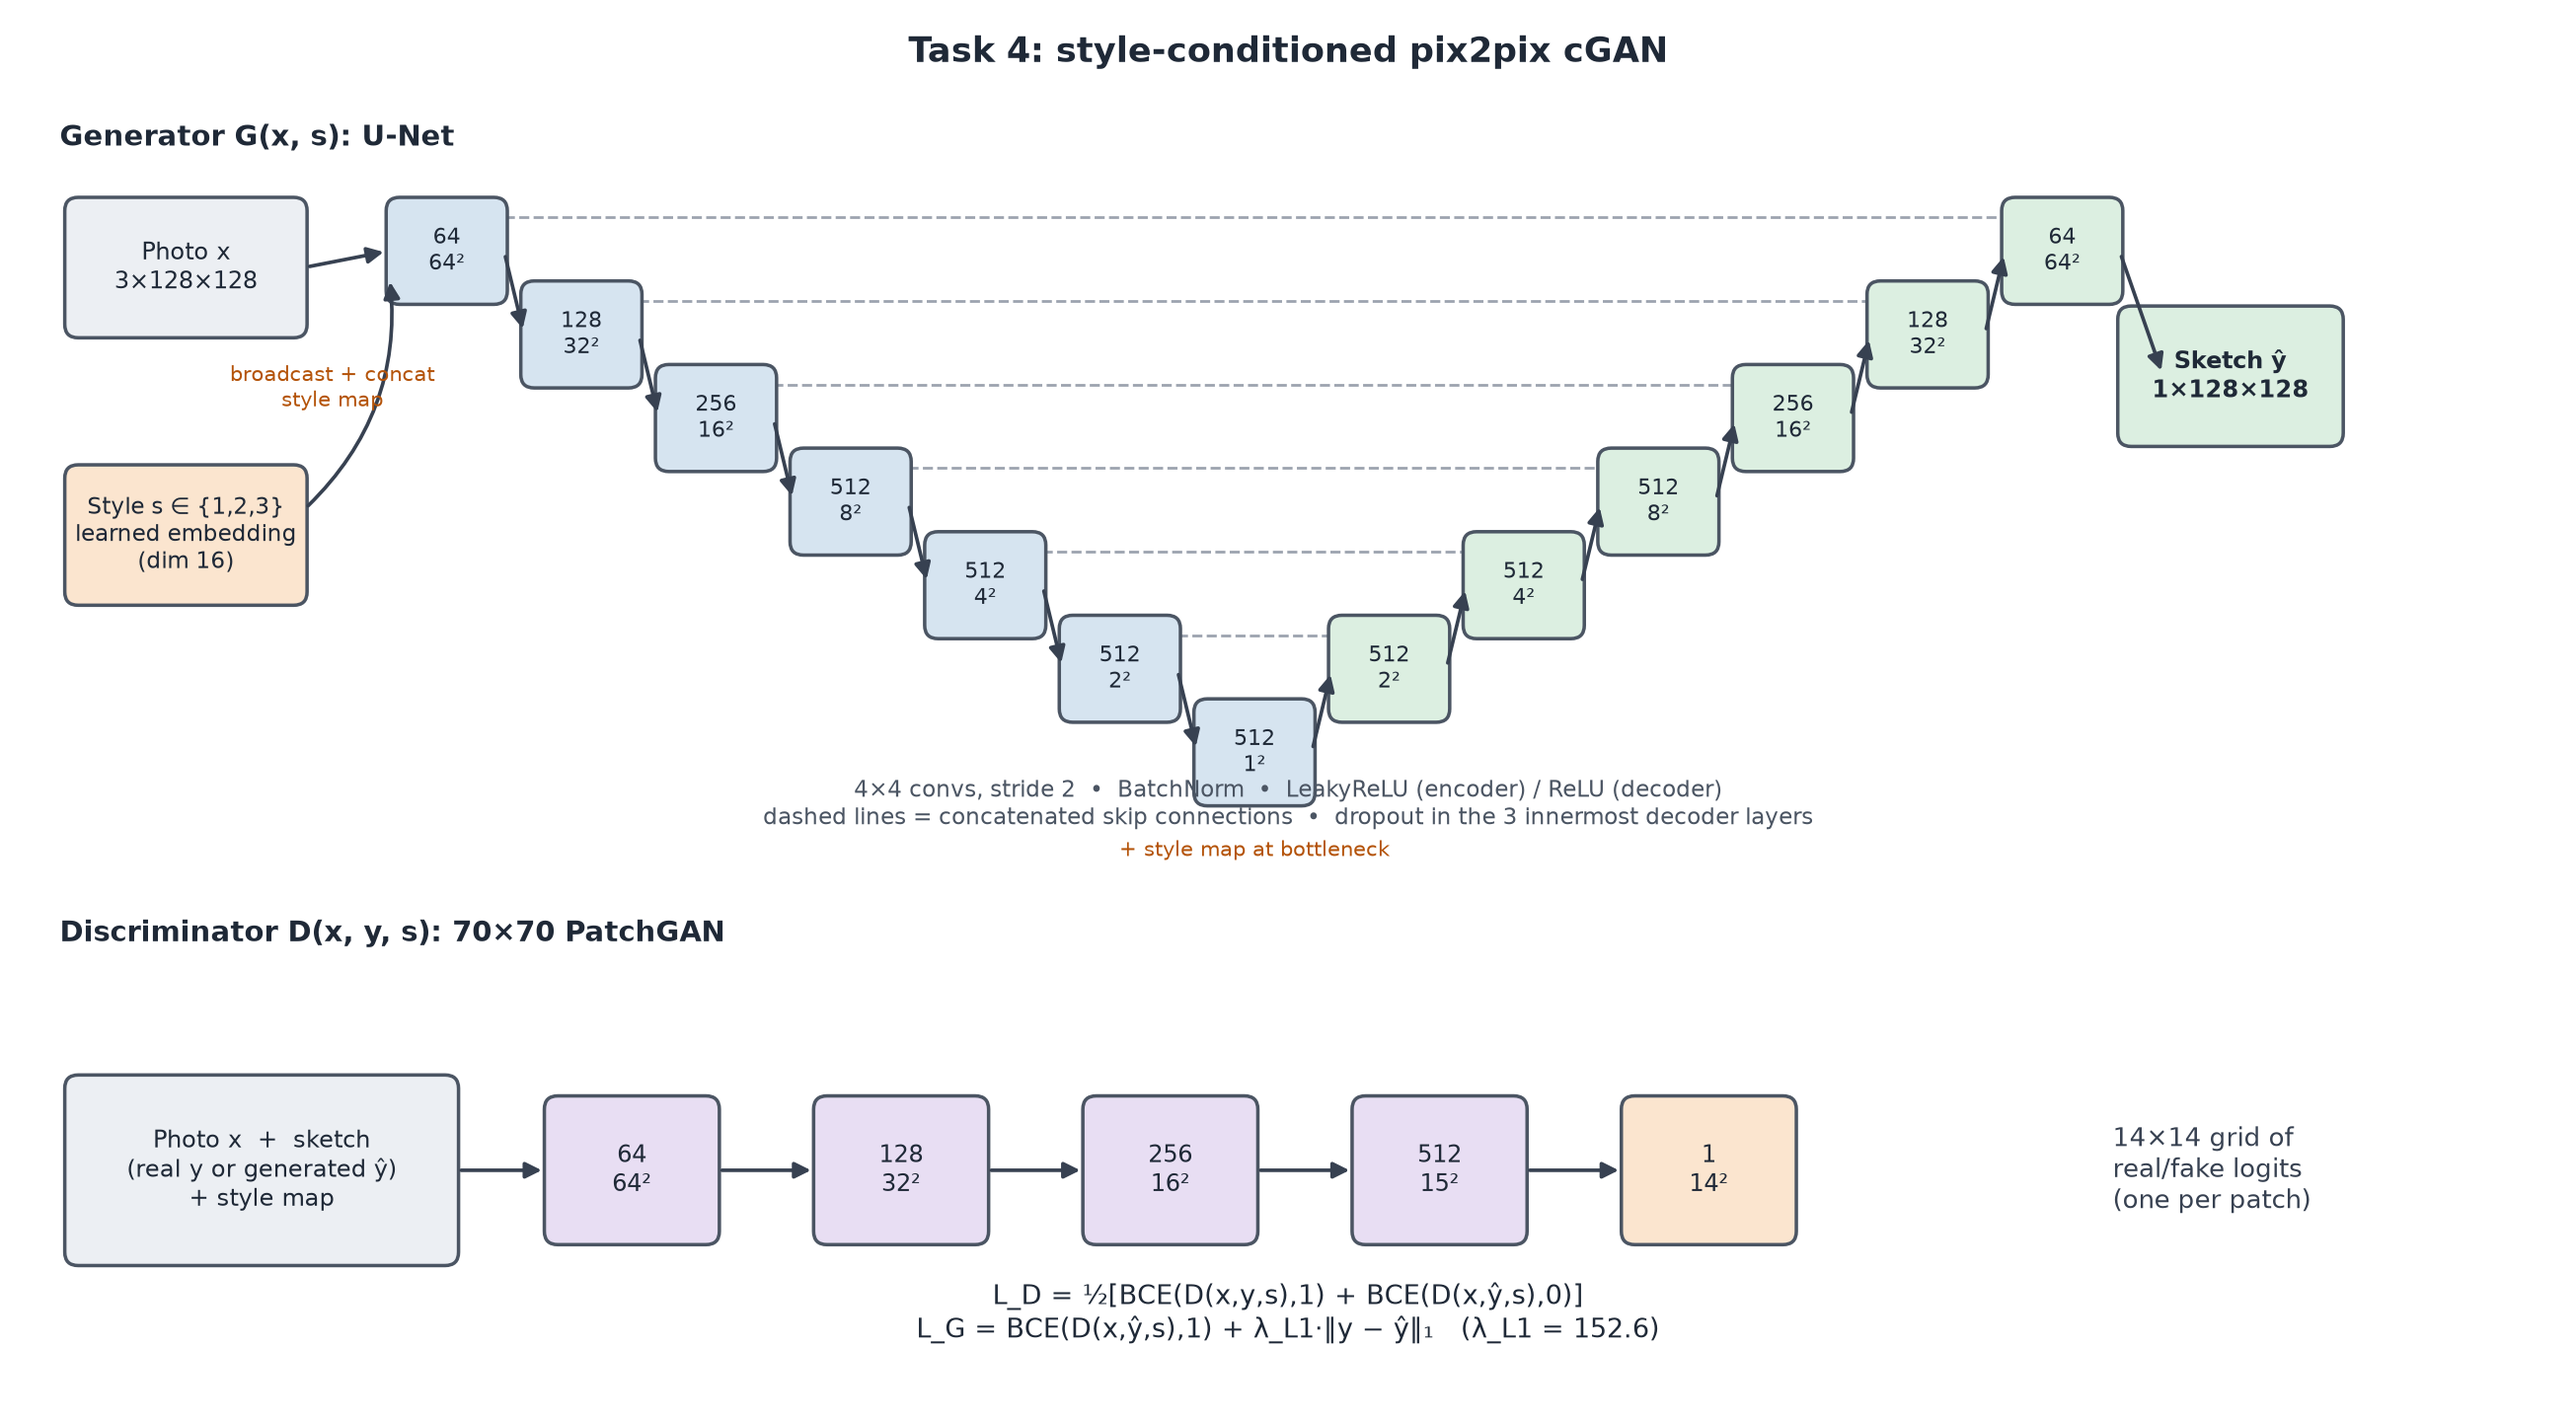
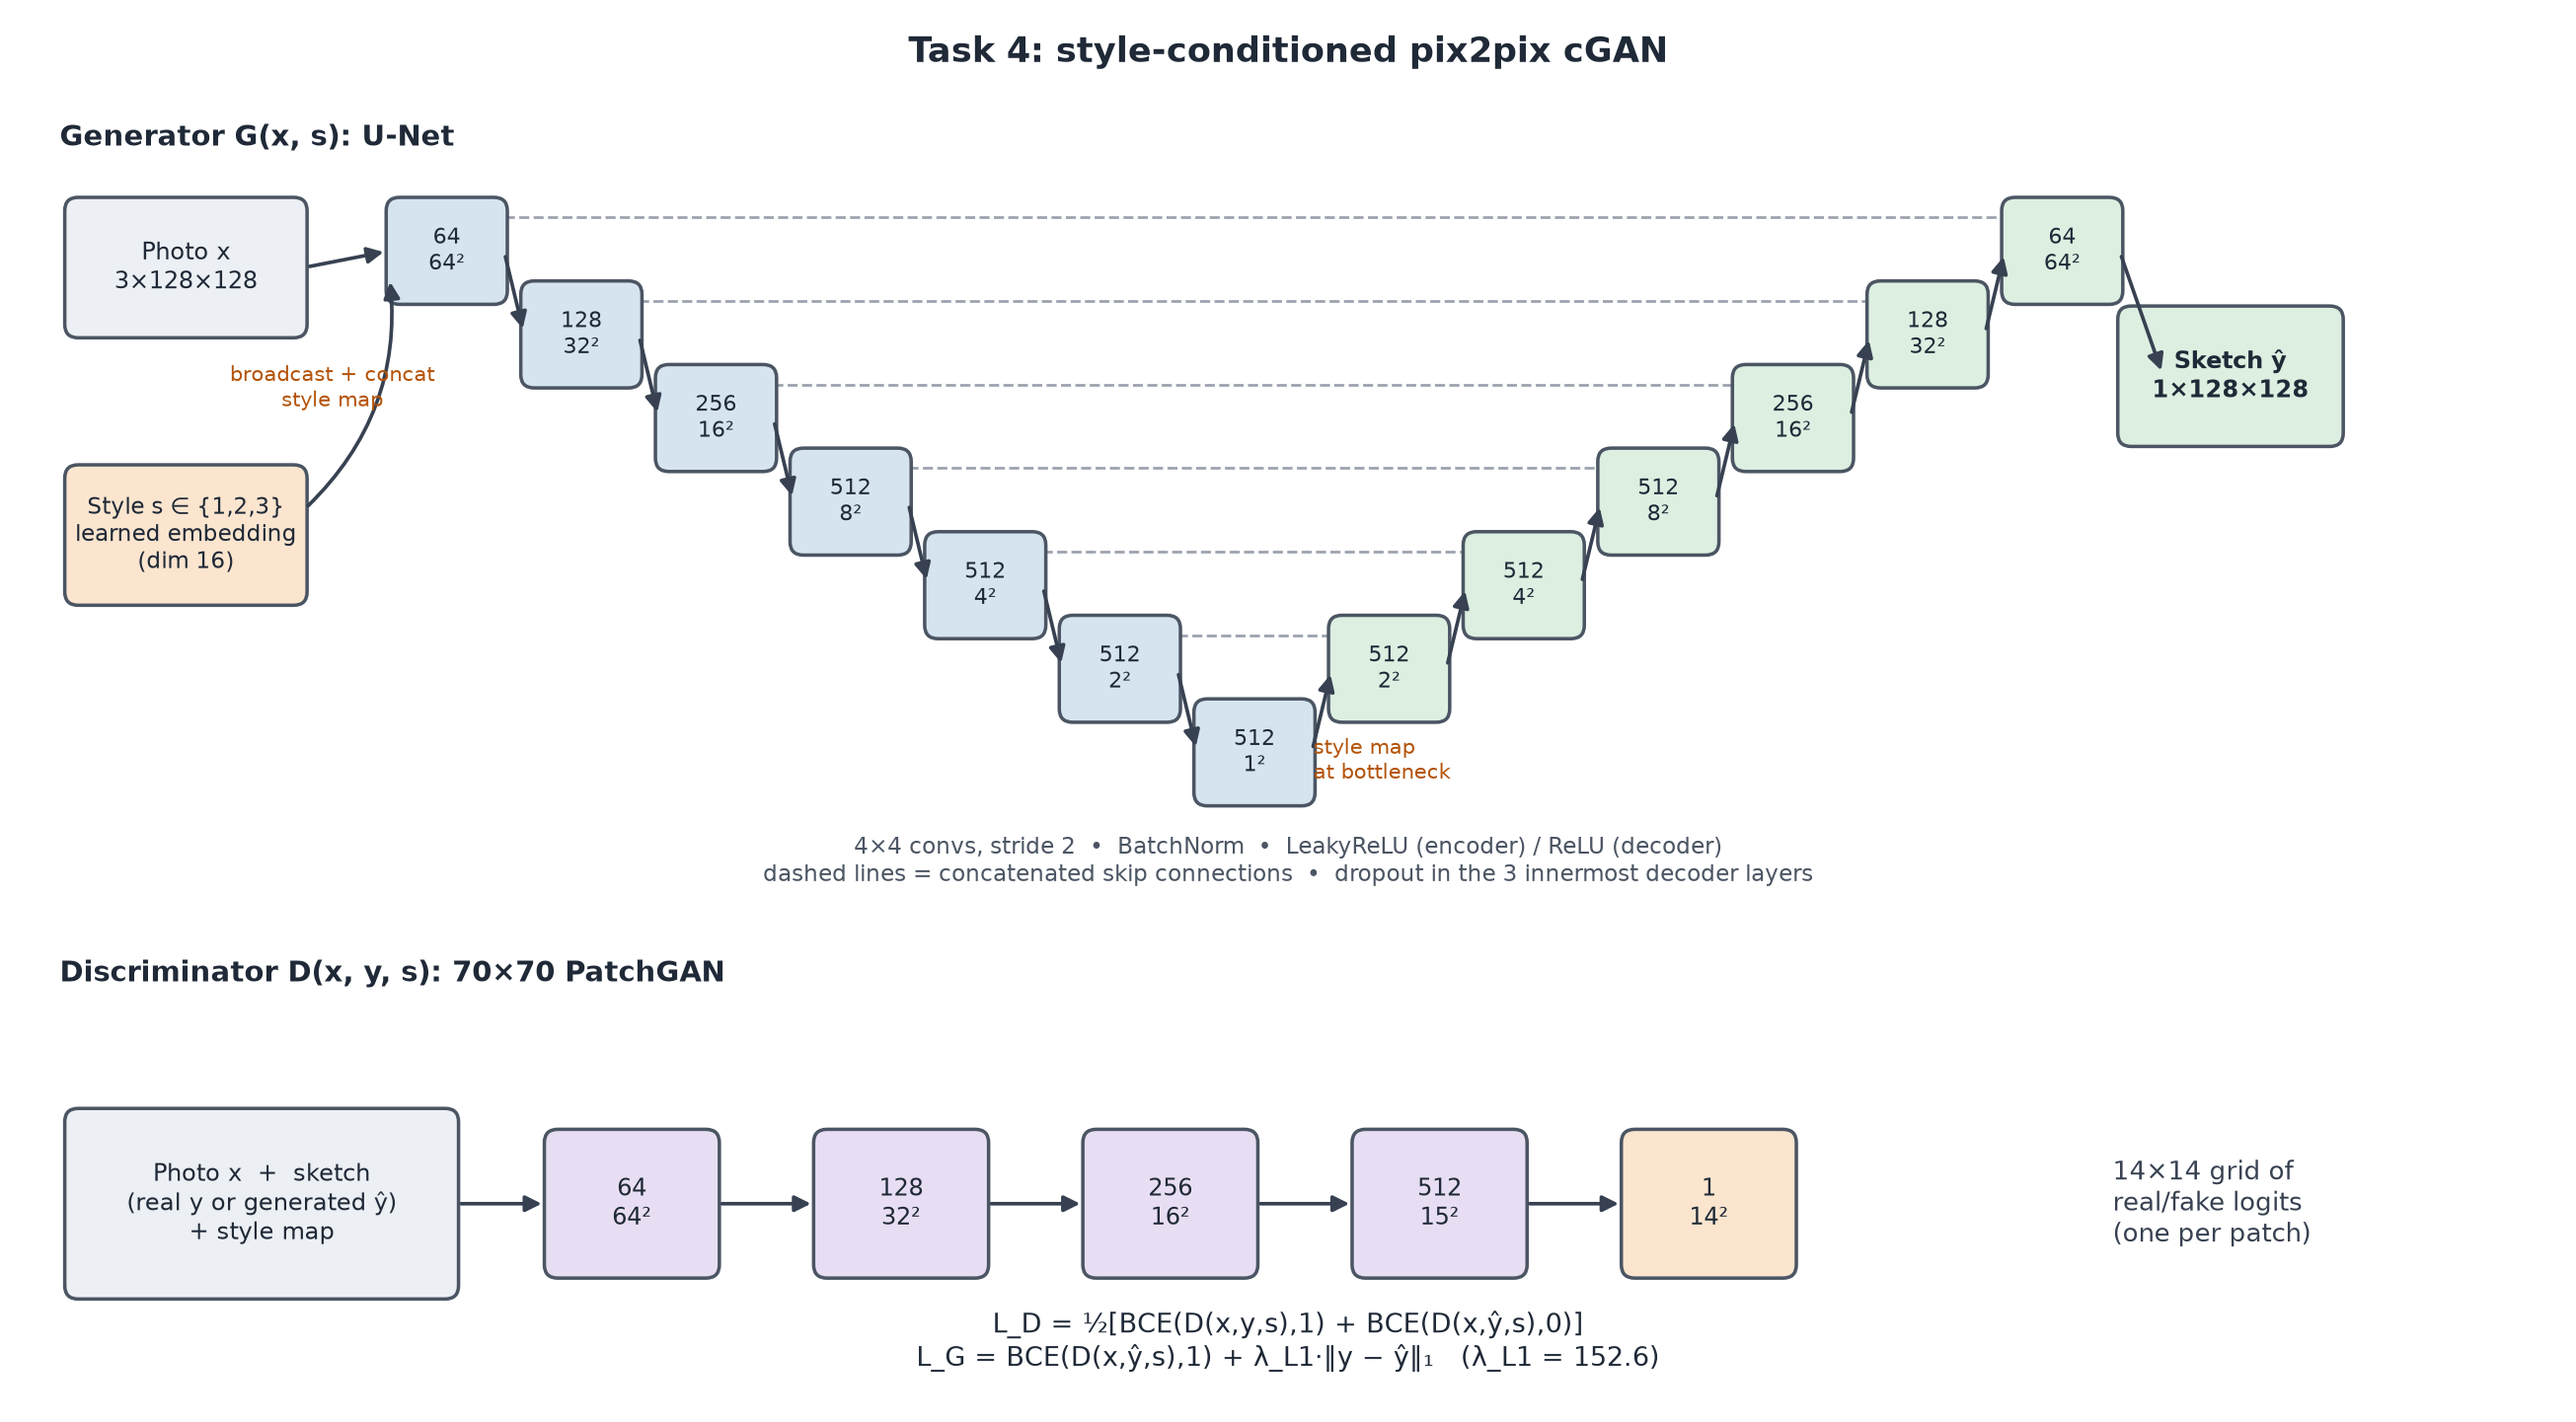
Fix cGAN diagram annotation overlap

diff --git a/scripts/make_diagrams.py b/scripts/make_diagrams.py
@@ -121,7 +121,8 @@ def task4():
     arrow(ax, 1.65, 6.75, ex[0] - bw / 2, ey[0])
     arrow(ax, 1.65, 5.3, ex[0] - bw / 2, ey[0] - 0.15, rad=0.25)
     ax.text(1.82, 5.92, "broadcast + concat\nstyle map", fontsize=7, color="#b45309", ha="center")
-    ax.text(ex[6], ey[6] - 0.62, "+ style map at bottleneck", ha="center", fontsize=7, color="#b45309")
+    ax.text(ex[6] + 0.35, ey[6] - 0.05, "style map\nat bottleneck", ha="left", va="center",
+            fontsize=6.8, color="#b45309")
     dec = ["512\n2²", "512\n4²", "512\n8²", "256\n16²", "128\n32²", "64\n64²"]
     dx = [ex[6] + (j + 1) * step for j in range(6)]
     dy = [ey[5 - j] for j in range(6)]                      # same level as the mirrored encoder layer
@@ -133,19 +134,19 @@ def task4():
         ax.plot([lx1, lx2], [dy[j] + 0.2, dy[j] + 0.2], color="#9ca3af", lw=0.9, ls="--", zorder=0)
     box(ax, 13.1, 6.1, 1.3, 0.8, "Sketch ŷ\n1×128×128", GREEN, size=8, bold=True)
     arrow(ax, dx[5] + bw / 2, dy[5], 12.7, 6.1)
-    ax.text(7.5, 3.42, "4×4 convs, stride 2  •  BatchNorm  •  LeakyReLU (encoder) / ReLU (decoder)\n"
+    ax.text(7.5, 3.08, "4×4 convs, stride 2  •  BatchNorm  •  LeakyReLU (encoder) / ReLU (decoder)\n"
             "dashed lines = concatenated skip connections  •  dropout in the 3 innermost decoder layers",
             ha="center", fontsize=7.6, color="#4b5563")
     # discriminator (bottom)
-    ax.text(0.2, 2.72, "Discriminator D(x, y, s): 70×70 PatchGAN", fontsize=9.5, weight="bold", color=INK)
-    box(ax, 1.4, 1.35, 2.3, 1.1, "Photo x  +  sketch\n(real y or generated ŷ)\n+ style map", GREY, size=8)
+    ax.text(0.2, 2.48, "Discriminator D(x, y, s): 70×70 PatchGAN", fontsize=9.5, weight="bold", color=INK)
+    box(ax, 1.4, 1.15, 2.3, 1.1, "Photo x  +  sketch\n(real y or generated ŷ)\n+ style map", GREY, size=8)
     layers = ["64\n64²", "128\n32²", "256\n16²", "512\n15²", "1\n14²"]
     lxs = [3.6 + i * 1.6 for i in range(5)]
     for i, (x, t) in enumerate(zip(lxs, layers)):
-        box(ax, x, 1.35, 1.0, 0.85, t, PURPLE if i < 4 else ORANGE, size=8)
-        arrow(ax, (lxs[i - 1] + 0.5) if i else 2.55, 1.35, x - 0.5, 1.35)
-    ax.text(12.4, 1.35, "14×14 grid of\nreal/fake logits\n(one per patch)", fontsize=8.5, color="#374151", va="center")
-    ax.text(7.5, 0.35, "L_D = ½[BCE(D(x,y,s),1) + BCE(D(x,ŷ,s),0)]\n"
+        box(ax, x, 1.15, 1.0, 0.85, t, PURPLE if i < 4 else ORANGE, size=8)
+        arrow(ax, (lxs[i - 1] + 0.5) if i else 2.55, 1.15, x - 0.5, 1.15)
+    ax.text(12.4, 1.15, "14×14 grid of\nreal/fake logits\n(one per patch)", fontsize=8.5, color="#374151", va="center")
+    ax.text(7.5, 0.18, "L_D = ½[BCE(D(x,y,s),1) + BCE(D(x,ŷ,s),0)]\n"
             "L_G = BCE(D(x,ŷ,s),1) + λ_L1·‖y − ŷ‖₁   (λ_L1 = 152.6)",
             ha="center", fontsize=8.8, color=INK)
     save(fig, "diagram_task4_cgan.png")

diff --git a/docs/ai_use_log.md b/docs/ai_use_log.md
@@ -15,3 +15,4 @@ Running record for the report's AI-use appendix: what AI generated, and how it w
 | 2026-10-04 | Claude Code (Claude Opus 5.5) | **Phase 5 (Task 4):** style-conditioned pix2pix cGAN (`src/models/cgan.py`: U-Net generator + PatchGAN, learned style embedding in both), training loop with separately logged D-real / D-fake / G-adv / G-L1 losses (`src/gan_training.py`), Optuna/train/evaluate scripts, two-input ONNX export | CPU unit tests (shapes; style embedding changes both G and D outputs); GPU smoke study before the real one; generator size first capped for the 50 MB rule, then uncapped after the student's decision (Optuna then chose the largest, base 64). Checkpoint chosen on validation (epoch 55); test evaluated once; ONNX verified on 48 real FS2K validation photos (max diff 7.2e-7). Backend restarted and real sketches generated for all 3 styles (~12 ms each). *To do (student): look at task4_examples.png / task4_failures.png and the MLflow sample images.* |
 | 2026-10-04 | Claude Code (Claude Opus 5.5) | **Phase 7:** backend and frontend Dockerfiles, nginx config, allow-list `.dockerignore` files, `docker-compose.yml`, README (one-command start, model download from the GitHub Release, reproduction steps, attribution), report material index, Task 4 figure title fix | Docker safety rules followed: `docker info`, disk and `docker system df` before/after (build cache 0 -> 842 MB, images +1.06 GB), pinned base images verified to exist, contexts checked (349 kB / 1.08 MB), builds with a 10-minute limit; both builds passed first time. Tested through the nginx proxy: health 7/7, all four endpoints, upload validation (415/400/200), SPA deep links; browser navigation 36/36. Fresh-clone test from GitHub following the README (model download, `docker compose up --build`): healthy, 7/7 models, navigation 36/36, a real hard-routing run. |
 | 2026-10-04 | Copilot SDK in VS Code | Reformatted the four architecture figures by improving spacing, hierarchy, annotation placement, arrow-label contrast, formula wrapping, and export padding in `scripts/make_diagrams.py` | Regenerated all four figures and visually checked them for clipped text and overlaps. `py_compile` passed; rendered sizes: app 2439×865, Task 1 2780×899, Task 3 2563×1120, Task 4 2610×1441. |
+| 2026-10-04 | Copilot SDK in VS Code | Corrected the remaining Task 4 cGAN collision by moving the bottleneck conditioning label beside the bottleneck and moving generator notes into a dedicated gap above the discriminator | Regenerated all figures, visually rechecked the cGAN render, and reran `py_compile`. |

diff --git a/PROGRESS.md b/PROGRESS.md
@@ -73,6 +73,7 @@ Resume guide: read `CLAUDE.md`, then `docs/explanation.md`, then `docs/implement
 - **Architecture figure polish (2026-10-04)**
   - Regenerated `docs/figures/diagram_app.png`, `diagram_task1_autoencoder.png`, `diagram_task3_soft_moe.png`, and `diagram_task4_cgan.png` from `scripts/make_diagrams.py`.
   - Improved title hierarchy, spacing, annotation placement, formula wrapping, arrow-label contrast, and export padding; verified the source with `py_compile` and visually checked all four renders.
+  - Follow-up correction moved the Task 4 bottleneck/style annotation and generator notes away from the U-Net blocks; the cGAN figure was regenerated and rechecked.
 
 ## In progress
 - Nothing running. The app runs in Docker at http://localhost:8080 (`docker compose down` to stop).
